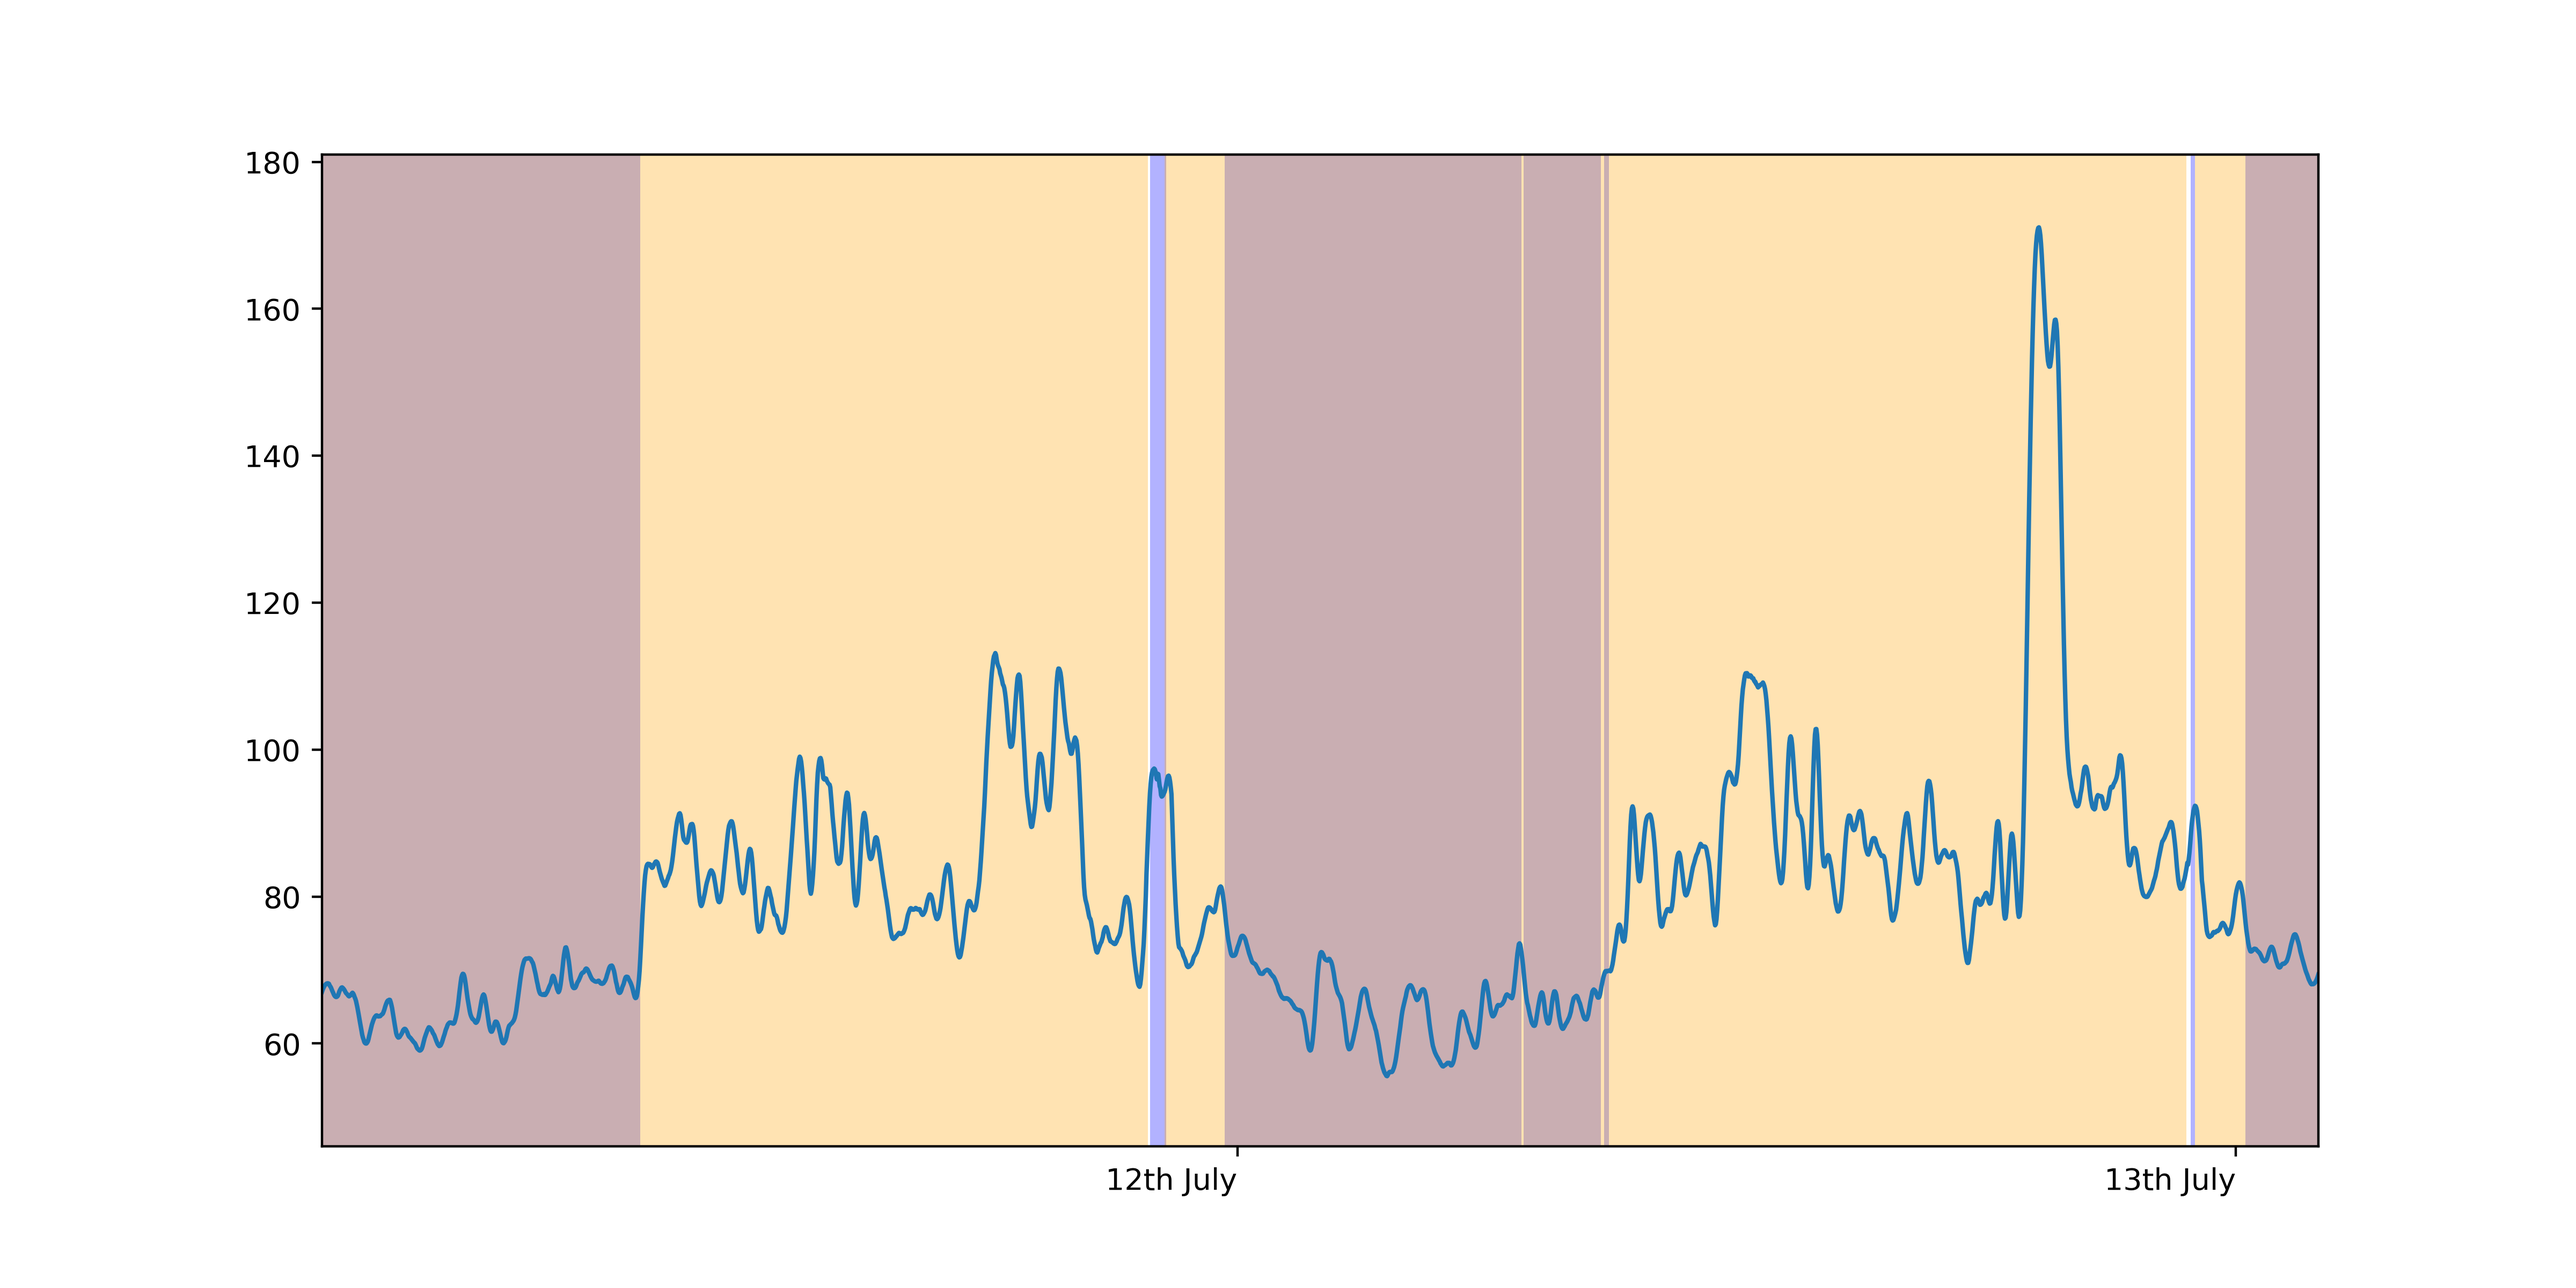
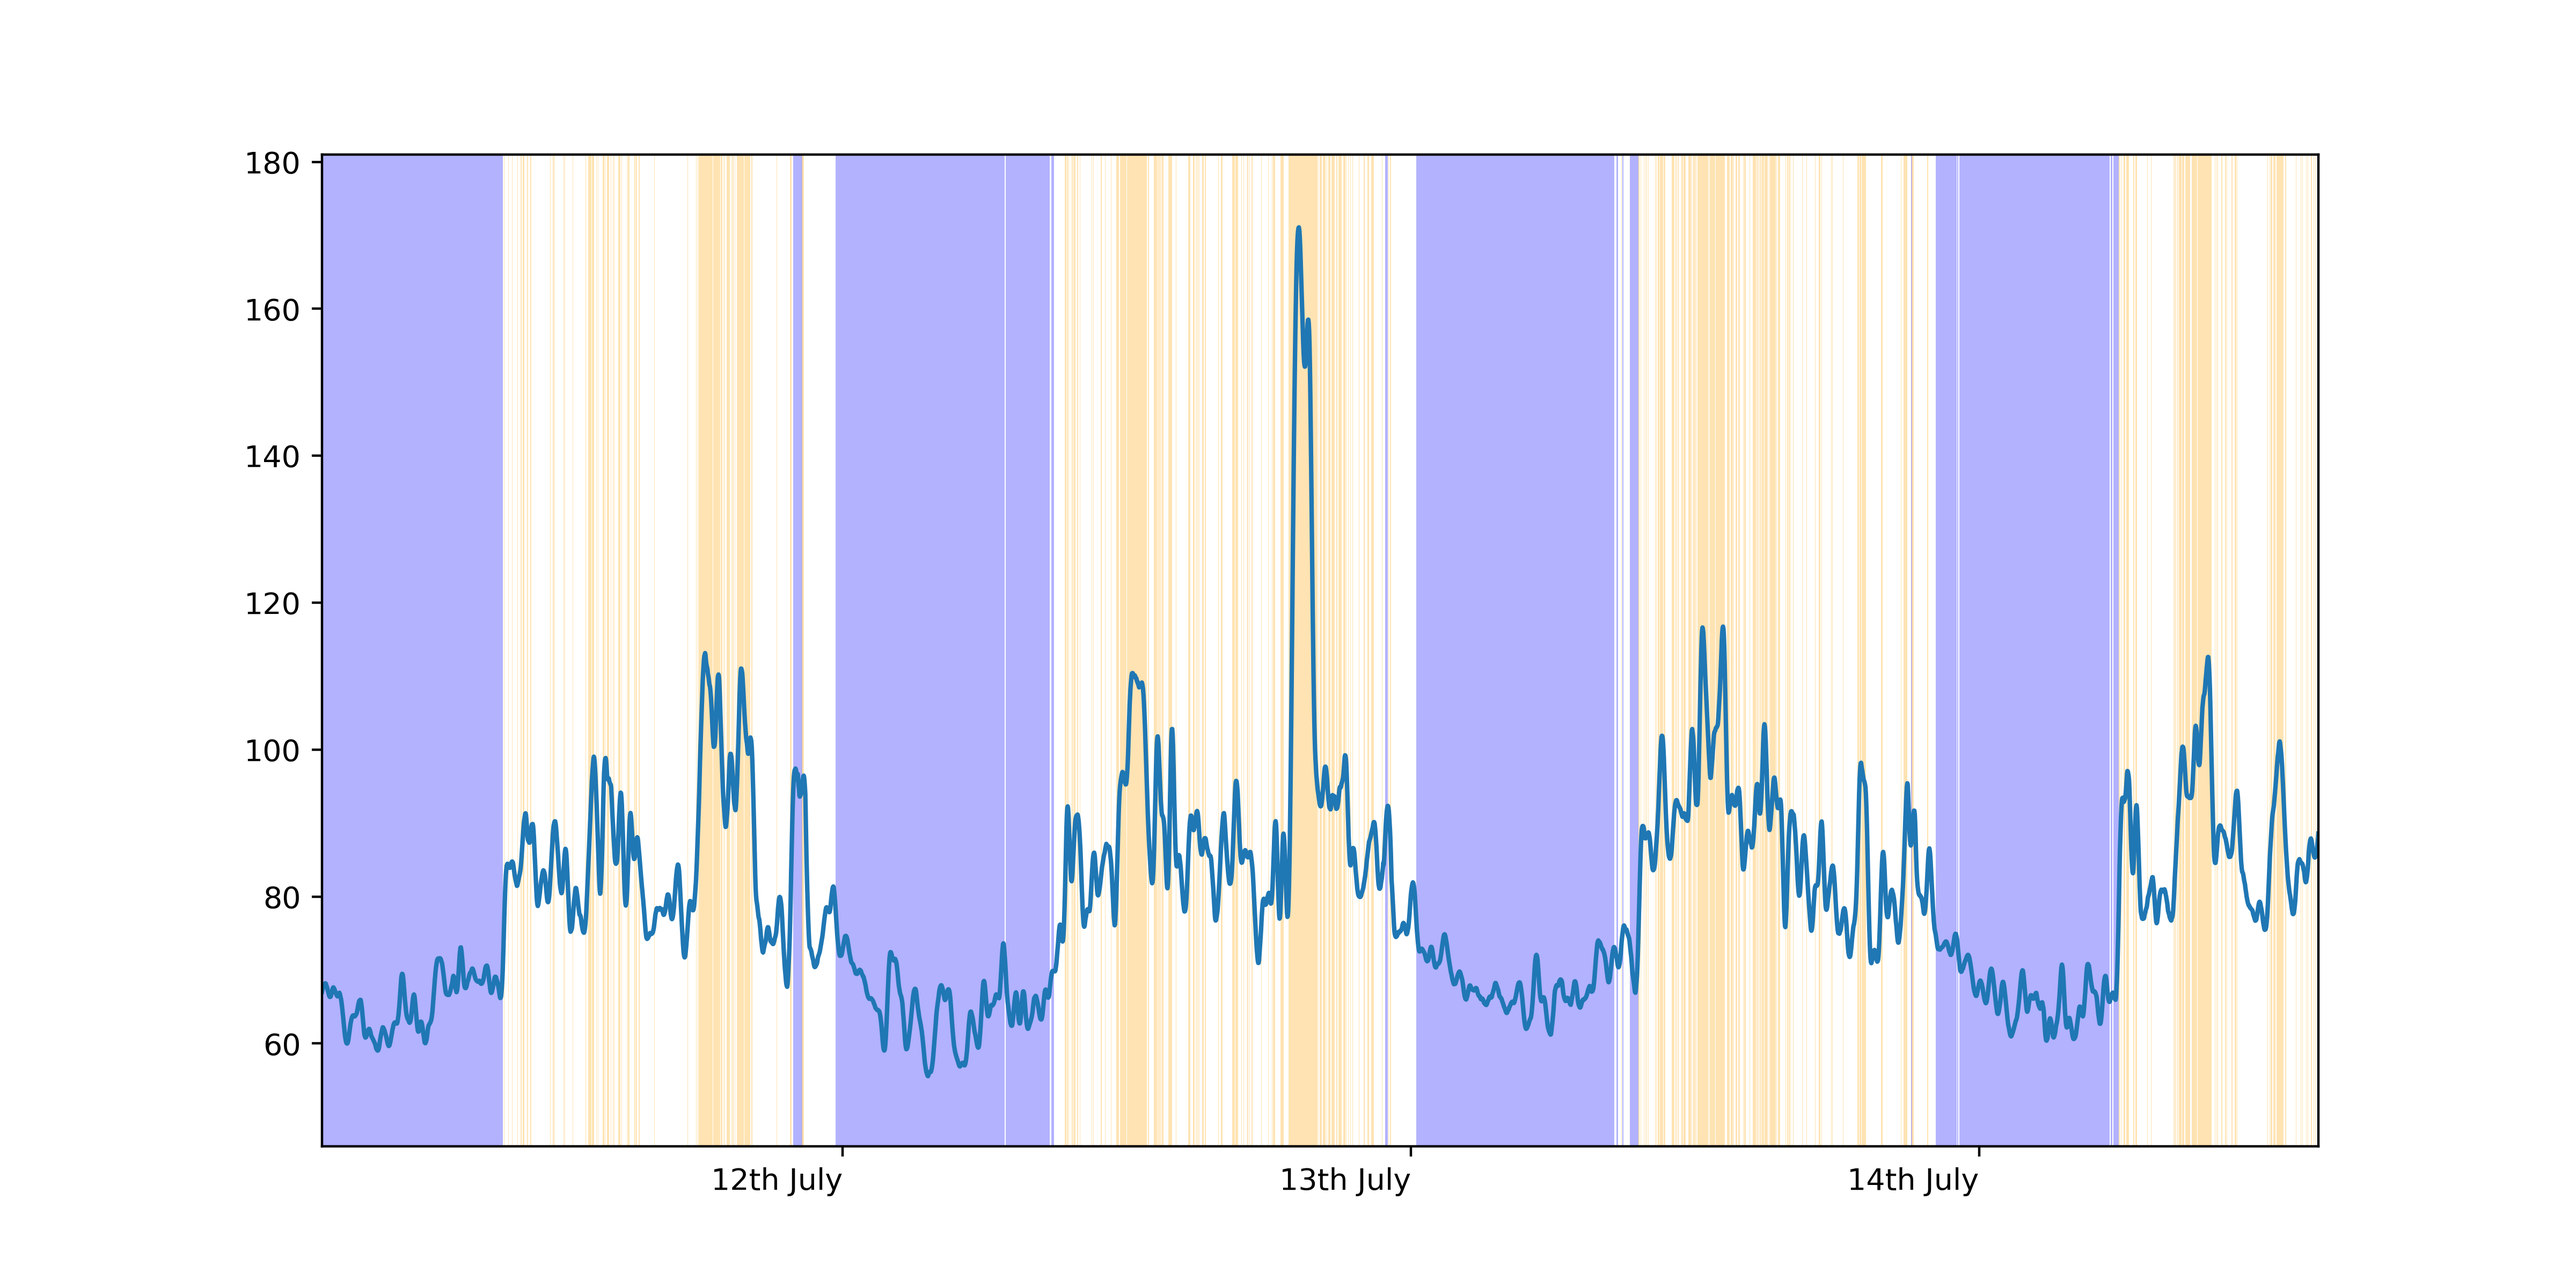
Changed show_high_hr behaviour

diff --git a/main.py b/main.py
@@ -312,7 +312,7 @@ def init(location):
     data = Data(timestamps=timestamp, steps_data=steps, heart_data=heart_rate, activity_data=raw_kind, sleep_data=sleep, deep_sleep_data = deep_sleep, rem_sleep_data = rem_sleep)
     return data
 
-def heart_rate_plot(data, offset=10, figsize=(12,6), save=True, dpi=400, zone="22:00:00", show_sleep = False, fancy_ticks = True, show_high_hr = 90):
+def heart_rate_plot(data, offset=10, figsize=(12,6), save=True, dpi=400, zone="22:00:00", show_sleep = False, fancy_ticks = True, show_high_hr = 90, correct_midnights = True):
 
     plt.figure(figsize=figsize)
 
@@ -383,7 +383,7 @@ if get_config()["update_local_db"]:
 else:
     data = init("data.db")
 
-heart_rate_plot(data.range(data.get_timestamp("2023-07-12"), data.get_timestamp("2023-07-14")), show_high_hr=90, show_sleep=True)
+heart_rate_plot(data.range(data.get_timestamp("2023-07-12"), data.get_timestamp("2023-07-16")), show_high_hr=90, show_sleep=True)
 
 # as of 2023-07-02 data is no longer global (hence you can get specific ranges using the inbuild data.range())
 # heart_rate_plot(data.range(data.get_timestamp("2023-06-27"), data.get_timestamp("2023-06-30")))
